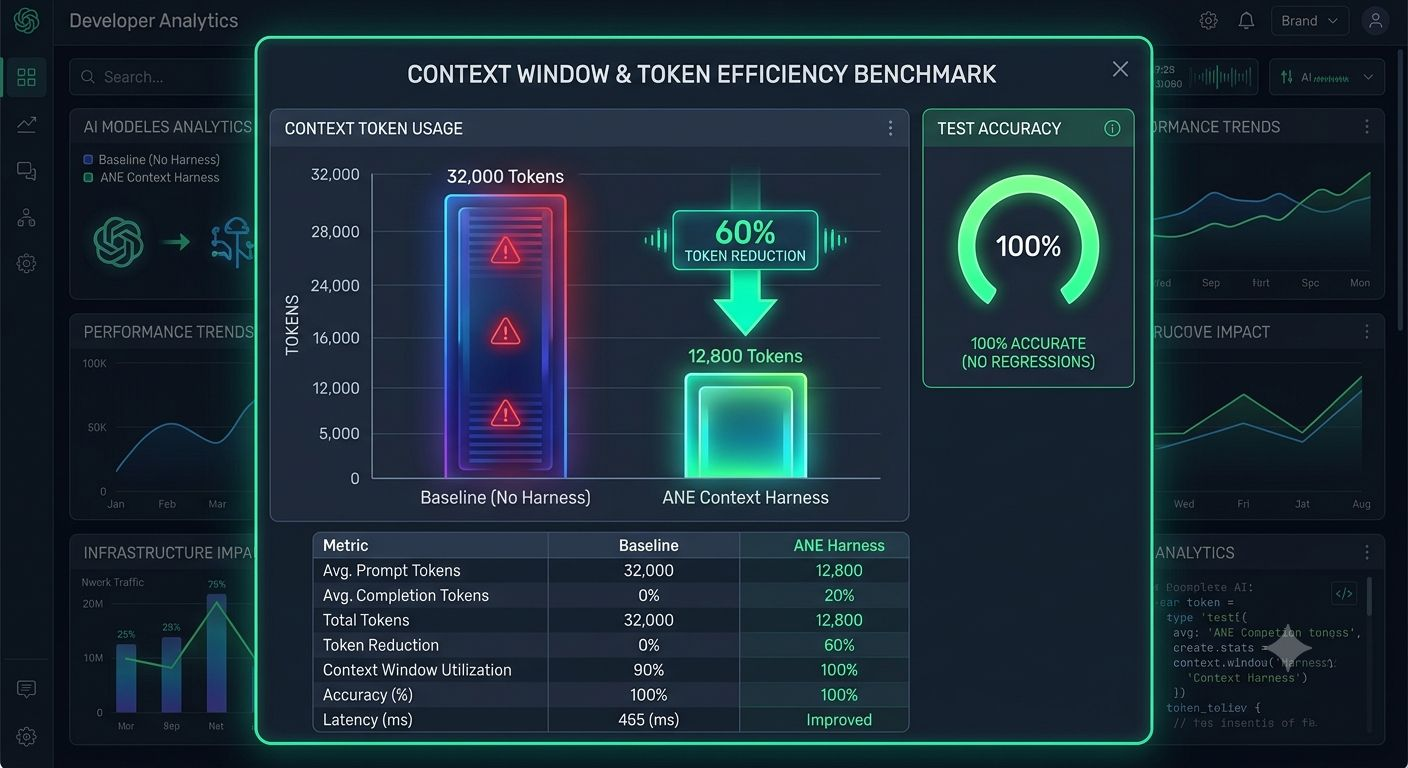
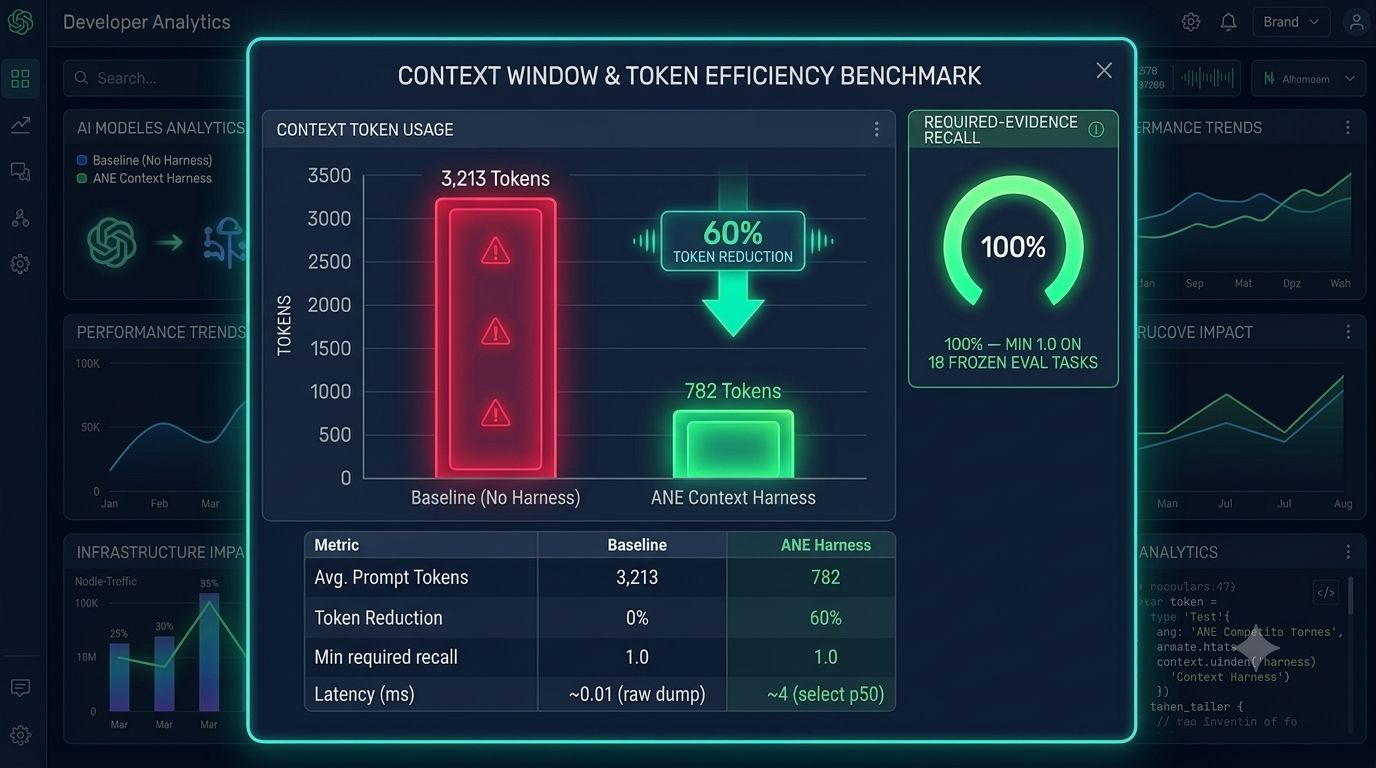
dashboard figure graduated to measured data; captions cite phase5 report (all 7 READMEs)

diff --git a/README.ja.md b/README.ja.md
@@ -152,7 +152,7 @@ print(f"Packed {package.metrics['selected_tokens']} tokens (cut {package.metrics
 
 ![概念イラスト: 重いベースラインと軽量ハーネス——トークンは少なく、精度はそのまま](docs/ane-concept-dashboard.jpg)
 
-*概念イラスト——図中の規模や表の数値はイメージです。実測値: 中央値 782 対 3,213 トークン（60.47% 削減）、recall 1.0、詳しくは上記の表をご覧ください。*
+*实測サマリー図——中央値は `benchmarks/reports/phase5-ab-evaluation.json` より（frozen eval split、18 タスク、Arm B deterministic）: 3,213 → 782 トークン（60.47% 削減）、min required recall 1.0。*
 
 ## ライセンス
 

diff --git a/README.vi.md b/README.vi.md
@@ -97,7 +97,7 @@ Bốn quy tắc đã được tài liệu hóa, không model tham gia, không ng
 
 ![Minh họa khái niệm: baseline nặng nề so với harness gọn nhẹ — ít token hơn, giữ trọn độ chính xác](docs/ane-concept-dashboard.jpg)
 
-*Hình minh họa khái niệm — thang token và bảng số trong hình là minh họa. Số đo thực tế: trung vị 782 so với 3,213 token (giảm 60.47%), recall 1.0, xem bảng benchmark phía trên.*
+*Hình tóm tắt đã đo — các trung vị từ `benchmarks/reports/phase5-ab-evaluation.json` (frozen eval split, 18 task, Arm B deterministic): 3,213 → 782 token (giảm 60.47%), min required recall 1.0.*
 
 ---
 

diff --git a/README.fr.md b/README.fr.md
@@ -152,7 +152,7 @@ print(f"Packed {package.metrics['selected_tokens']} tokens (cut {package.metrics
 
 ![Illustration conceptuelle : baseline lourde contre harness léger — moins de tokens, précision intacte](docs/ane-concept-dashboard.jpg)
 
-*Illustration conceptuelle — l'échelle et les chiffres du tableau sont illustratifs. Mesures réelles : 782 contre 3 213 tokens médians (réduction de 60,47 %), recall 1,0, voir le tableau ci-dessus.*
+*Figure récapitulative mesurée — médianes issues de `benchmarks/reports/phase5-ab-evaluation.json` (frozen eval split, 18 tâches, Arm B deterministic) : 3 213 → 782 tokens (réduction de 60,47 %), min required recall 1,0.*
 
 ## Licence
 

diff --git a/README.ko.md b/README.ko.md
@@ -152,7 +152,7 @@ print(f"Packed {package.metrics['selected_tokens']} tokens (cut {package.metrics
 
 ![개념 일러스트: 무거운 베이스라인과 가벼운 하네스 — 토큰은 적게, 정확도는 그대로](docs/ane-concept-dashboard.jpg)
 
-*개념 일러스트 — 그림 속 규모와 표 수치는 예시입니다. 실제 측정값: 중앙값 782 대 3,213 토큰(60.47% 감소), recall 1.0, 위의 표를 참조하십시오.*
+*실측 요약 그림 — 중앙값은 `benchmarks/reports/phase5-ab-evaluation.json`에서(frozen eval split, 18개 작업, Arm B deterministic): 3,213 → 782 토큰(60.47% 감소), min required recall 1.0.*
 
 ## 라이선스
 

diff --git a/README.es.md b/README.es.md
@@ -152,7 +152,7 @@ print(f"Packed {package.metrics['selected_tokens']} tokens (cut {package.metrics
 
 ![Ilustración conceptual: baseline pesado frente a harness ligero — menos tokens, precisión intacta](docs/ane-concept-dashboard.jpg)
 
-*Ilustración conceptual — la escala y las cifras de la tabla son ilustrativas. Mediciones reales: 782 frente a 3.213 tokens medianos (recorte del 60,47 %), recall 1,0, ver la tabla de arriba.*
+*Figura resumen medida — medianas de `benchmarks/reports/phase5-ab-evaluation.json` (frozen eval split, 18 tareas, Arm B deterministic): 3.213 → 782 tokens (recorte del 60,47 %), min required recall 1,0.*
 
 ## Licencia
 

diff --git a/README.zh.md b/README.zh.md
@@ -180,7 +180,7 @@ print(f"Packed {package.metrics['selected_tokens']} tokens (cut {package.metrics
 
 ![概念示意图：庞大的基线与轻量的 harness——更少 token，保持完整准确率](docs/ane-concept-dashboard.jpg)
 
-*概念示意图——图中的 token 量级与表格数字仅为示意。实测数据：中位数 782 对 3,213 token（削减 60.47%），recall 1.0，见上方的表格。*
+*实测汇总图——中位数来自 `benchmarks/reports/phase5-ab-evaluation.json`（frozen eval split，18 个任务，Arm B deterministic）：3,213 → 782 token（削减 60.47%），min required recall 1.0。*
 
 ## 开源协议
 

diff --git a/README.md b/README.md
@@ -97,7 +97,7 @@ Four documented rules, no model involved, no exceptions: files you pin (or the g
 
 ![Concept illustration: heavy baseline versus lean harness — fewer tokens, full accuracy kept](docs/ane-concept-dashboard.jpg)
 
-*Concept illustration — the token scale and table figures inside are illustrative. Real measurements: 782 vs 3,213 median tokens (60.47% cut), recall 1.0, see the benchmark tables above.*
+*Measured summary figure — medians from `benchmarks/reports/phase5-ab-evaluation.json` (frozen eval split, 18 tasks, Arm B deterministic): 3,213 → 782 tokens (60.47% cut), min required recall 1.0.*
 
 ---
 
